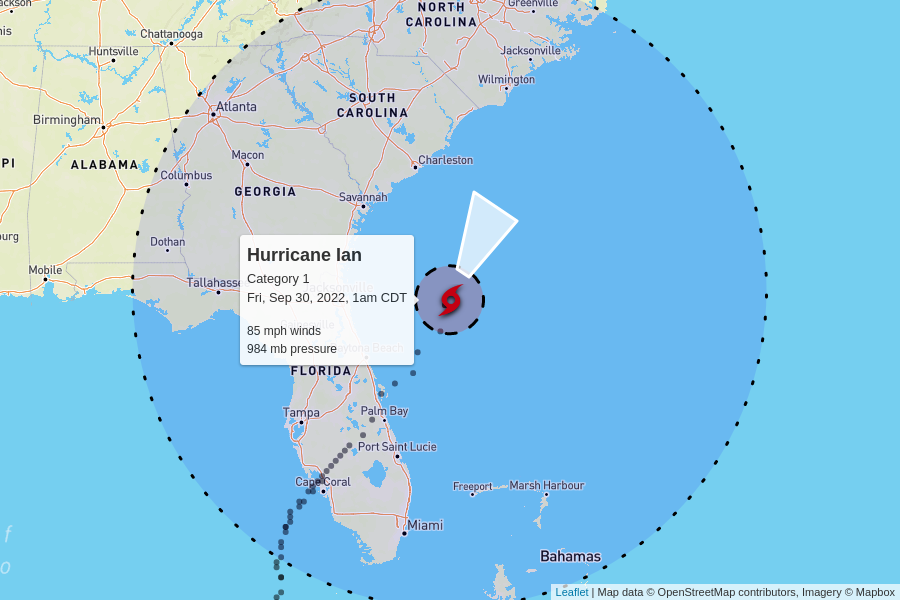
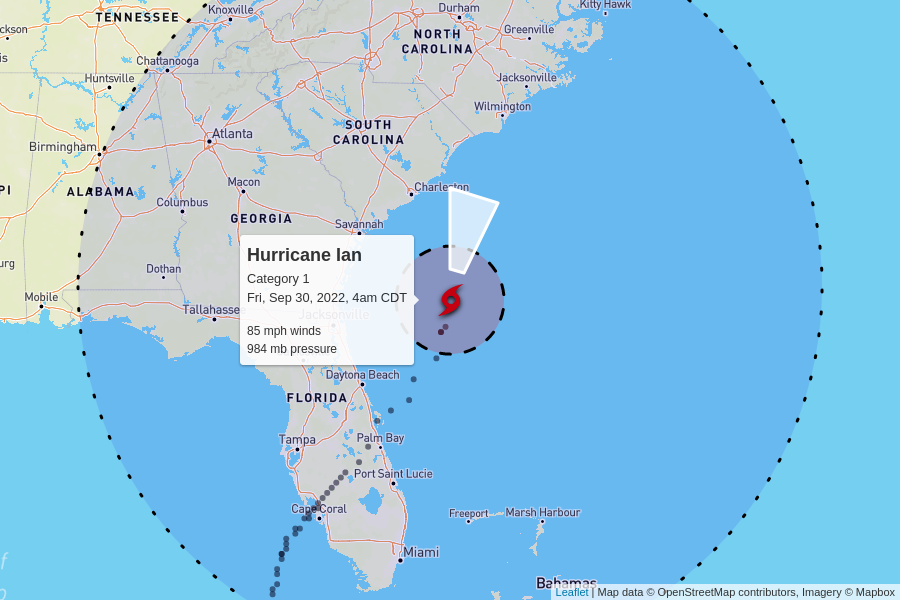
automatic update

Changed region(s): [[0.0, 0.0, 0.7156, 0.6], [0.28, 0.6, 0.6844, 1.0], [0.0, 0.93, 0.0311, 0.96]]

diff --git a/docs/index.html b/docs/index.html
@@ -100,7 +100,7 @@
         <td colspan="6" class="storm category-1" >
           <h2>
             Hurricane Ian - Category 1
-            <p class="updated">last updated <span data-time>2022-09-30T06:00:00.000Z</span></p>
+            <p class="updated">last updated <span data-time>2022-09-30T09:00:00.000Z</span></p>
           </h2>
         </td>
       </tr>
@@ -118,9 +118,9 @@
         <td>85 mph</td>
         <td>984 mb</td>
         <td>
-          10 mph to the north-northeast
+          9 mph to the north-northeast
           <br/>
-          <span style="display: inline-block; font-size: 1.5em; transform: rotate(30deg);">↑</span>
+          <span style="display: inline-block; font-size: 1.5em; transform: rotate(15deg);">↑</span>
         </td>
         <td><a href="https://raw.githubusercontent.com/mgwalker/atlantic-hurricanes/main/data/csv/AL092022.csv">AL092022.csv</a></td>
         <td><a href="https://www.nhc.noaa.gov/archive/2022/IAN.shtml?">NHC advisories</a></td>
